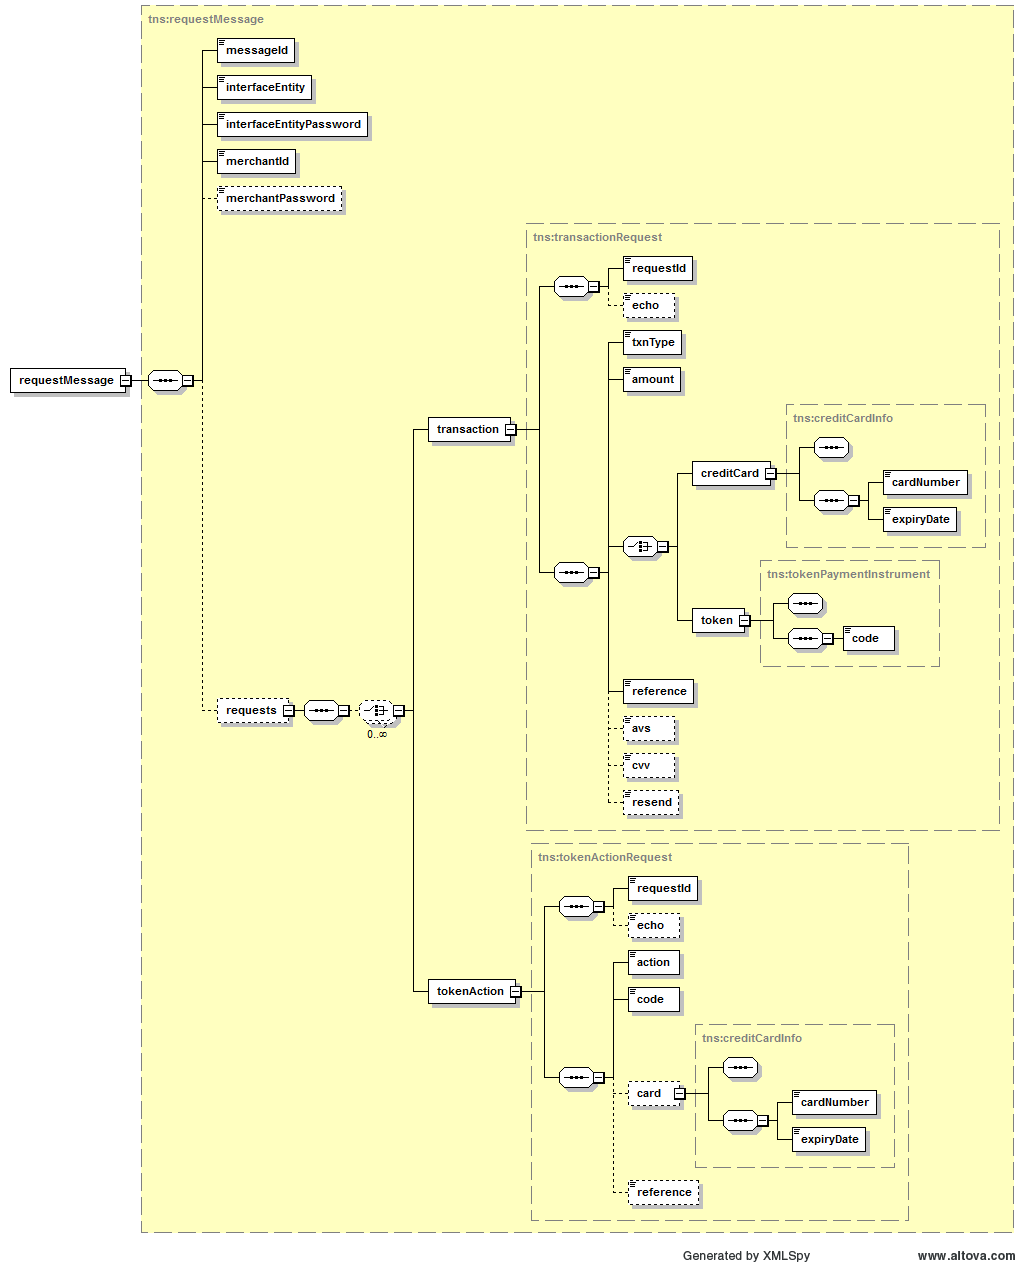
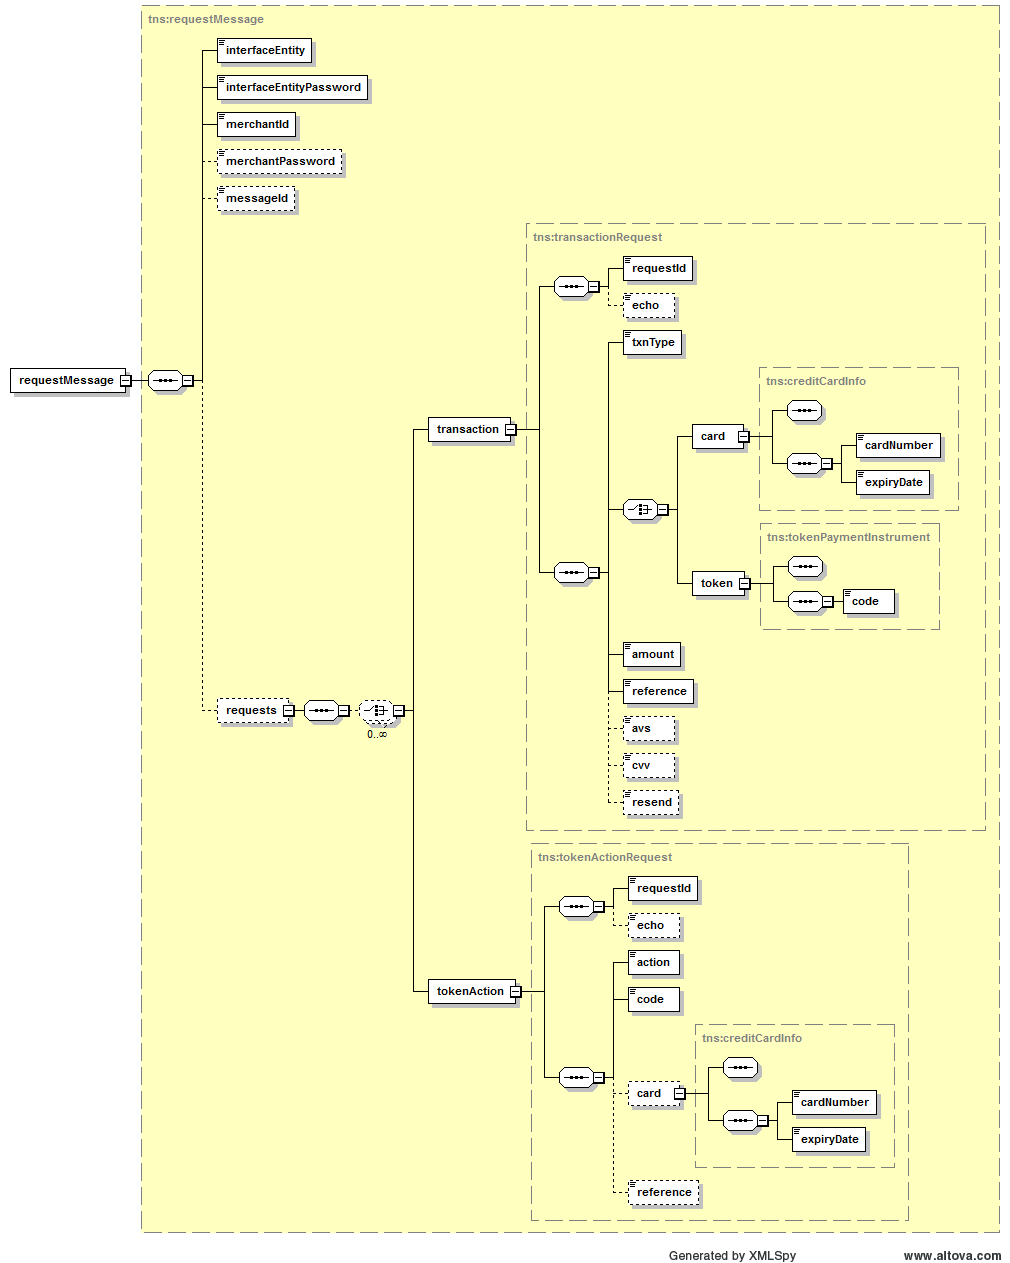
VISTA-69 #time 2h 30m Preparing working client application

diff --git a/vista-paypad/vista-paypad-interface/src/main/java/com/propertyvista/interfaces/payment/TransactionRequest.java b/vista-paypad/vista-paypad-interface/src/main/java/com/propertyvista/interfaces/payment/TransactionRequest.java
@@ -13,6 +13,7 @@
  */
 package com.propertyvista.interfaces.payment;
 
+import javax.validation.constraints.Min;
 import javax.validation.constraints.NotNull;
 import javax.validation.constraints.Pattern;
 import javax.validation.constraints.Size;
@@ -102,10 +103,10 @@ public class TransactionRequest extends Request {
     private String avs;
 
     /**
-     * The amount of money for which the transaction is being performed.
-     * Fractions of cents are ignored.
+     * The amount of money in cents for which the transaction is being performed.
      */
-    private float amount;
+    @Min(0)
+    private int amount;
 
     /**
      * REFERENCE NUMBER
@@ -140,7 +141,7 @@ public class TransactionRequest extends Request {
 
     //@formatter:off
     @XmlElements({ 
-        @XmlElement(name = "creditCard", type = CreditCardInfo.class, required = true), 
+        @XmlElement(name = "card", type = CreditCardInfo.class, required = true), 
         @XmlElement(name = "token", type = TokenPaymentInstrument.class, required = true)})
     //@formatter:on    
     public PaymentInstrument getPaymentInstrument() {
@@ -170,11 +171,11 @@ public class TransactionRequest extends Request {
     }
 
     @XmlElement(required = true)
-    public float getAmount() {
+    public int getAmount() {
         return amount;
     }
 
-    public void setAmount(float amount) {
+    public void setAmount(int amount) {
         this.amount = amount;
     }
 

diff --git a/vista-paypad/vista-paypad-interface/src/test/java/com/propertyvista/interfaces/payment/examples/utils/ExampleClient.java b/vista-paypad/vista-paypad-interface/src/test/java/com/propertyvista/interfaces/payment/examples/utils/ExampleClient.java
@@ -27,9 +27,7 @@ import com.propertyvista.interfaces.payment.ResponseMessage;
 
 public class ExampleClient {
 
-    //public static String serverUrl = "https://interfaces.birchwoodsoftwaregroup.com/payment";
-
-    public static String serverUrl = "http://localhost:8889/payment";
+    public static String serverUrl = "https://secure.paymentpad.com/payment";
 
     public static ResponseMessage execute(RequestMessage requestMessage) throws Exception {
         HttpURLConnection conn = null;

diff --git a/vista-paypad/vista-paypad-server/src/main/java/com/propertyvista/paypad/server/PaymentProcessor.java b/vista-paypad/vista-paypad-server/src/main/java/com/propertyvista/paypad/server/PaymentProcessor.java
@@ -172,7 +172,7 @@ public class PaymentProcessor {
             return;
         }
 
-        crequest.setAmount(transactionRequest.getAmount());
+        crequest.setAmountCents(transactionRequest.getAmount());
         crequest.referenceNumber = transactionRequest.getReference();
 
         if (Boolean.TRUE.equals(transactionRequest.getResend())) {

diff --git a/vista-paypad/vista-paypad-interface/src/test/java/com/propertyvista/interfaces/payment/examples/xml/RequestMessageCreator.java b/vista-paypad/vista-paypad-interface/src/test/java/com/propertyvista/interfaces/payment/examples/xml/RequestMessageCreator.java
@@ -107,7 +107,7 @@ public class RequestMessageCreator {
         token.setCode("DC1107");
         tcpay.setPaymentInstrument(token);
 
-        tcpay.setAmount(500.78f);
+        tcpay.setAmount(50078);
         tcpay.setReference("SeptemberRent14YongeAppt456");
         r.addRequest(tcpay);
 

diff --git a/vista-paypad/vista-paypad-interface/src/test/java/com/propertyvista/interfaces/payment/examples/TokenTransactions.java b/vista-paypad/vista-paypad-interface/src/test/java/com/propertyvista/interfaces/payment/examples/TokenTransactions.java
@@ -74,7 +74,7 @@ public class TokenTransactions {
         token.setCode("45125206MCRD5111");
         pReq.setPaymentInstrument(token);
 
-        pReq.setAmount(142.59f);
+        pReq.setAmount(14259);
         pReq.setReference("TOKENTRANSEXAMPLE");
 
         r.addRequest(pReq);
